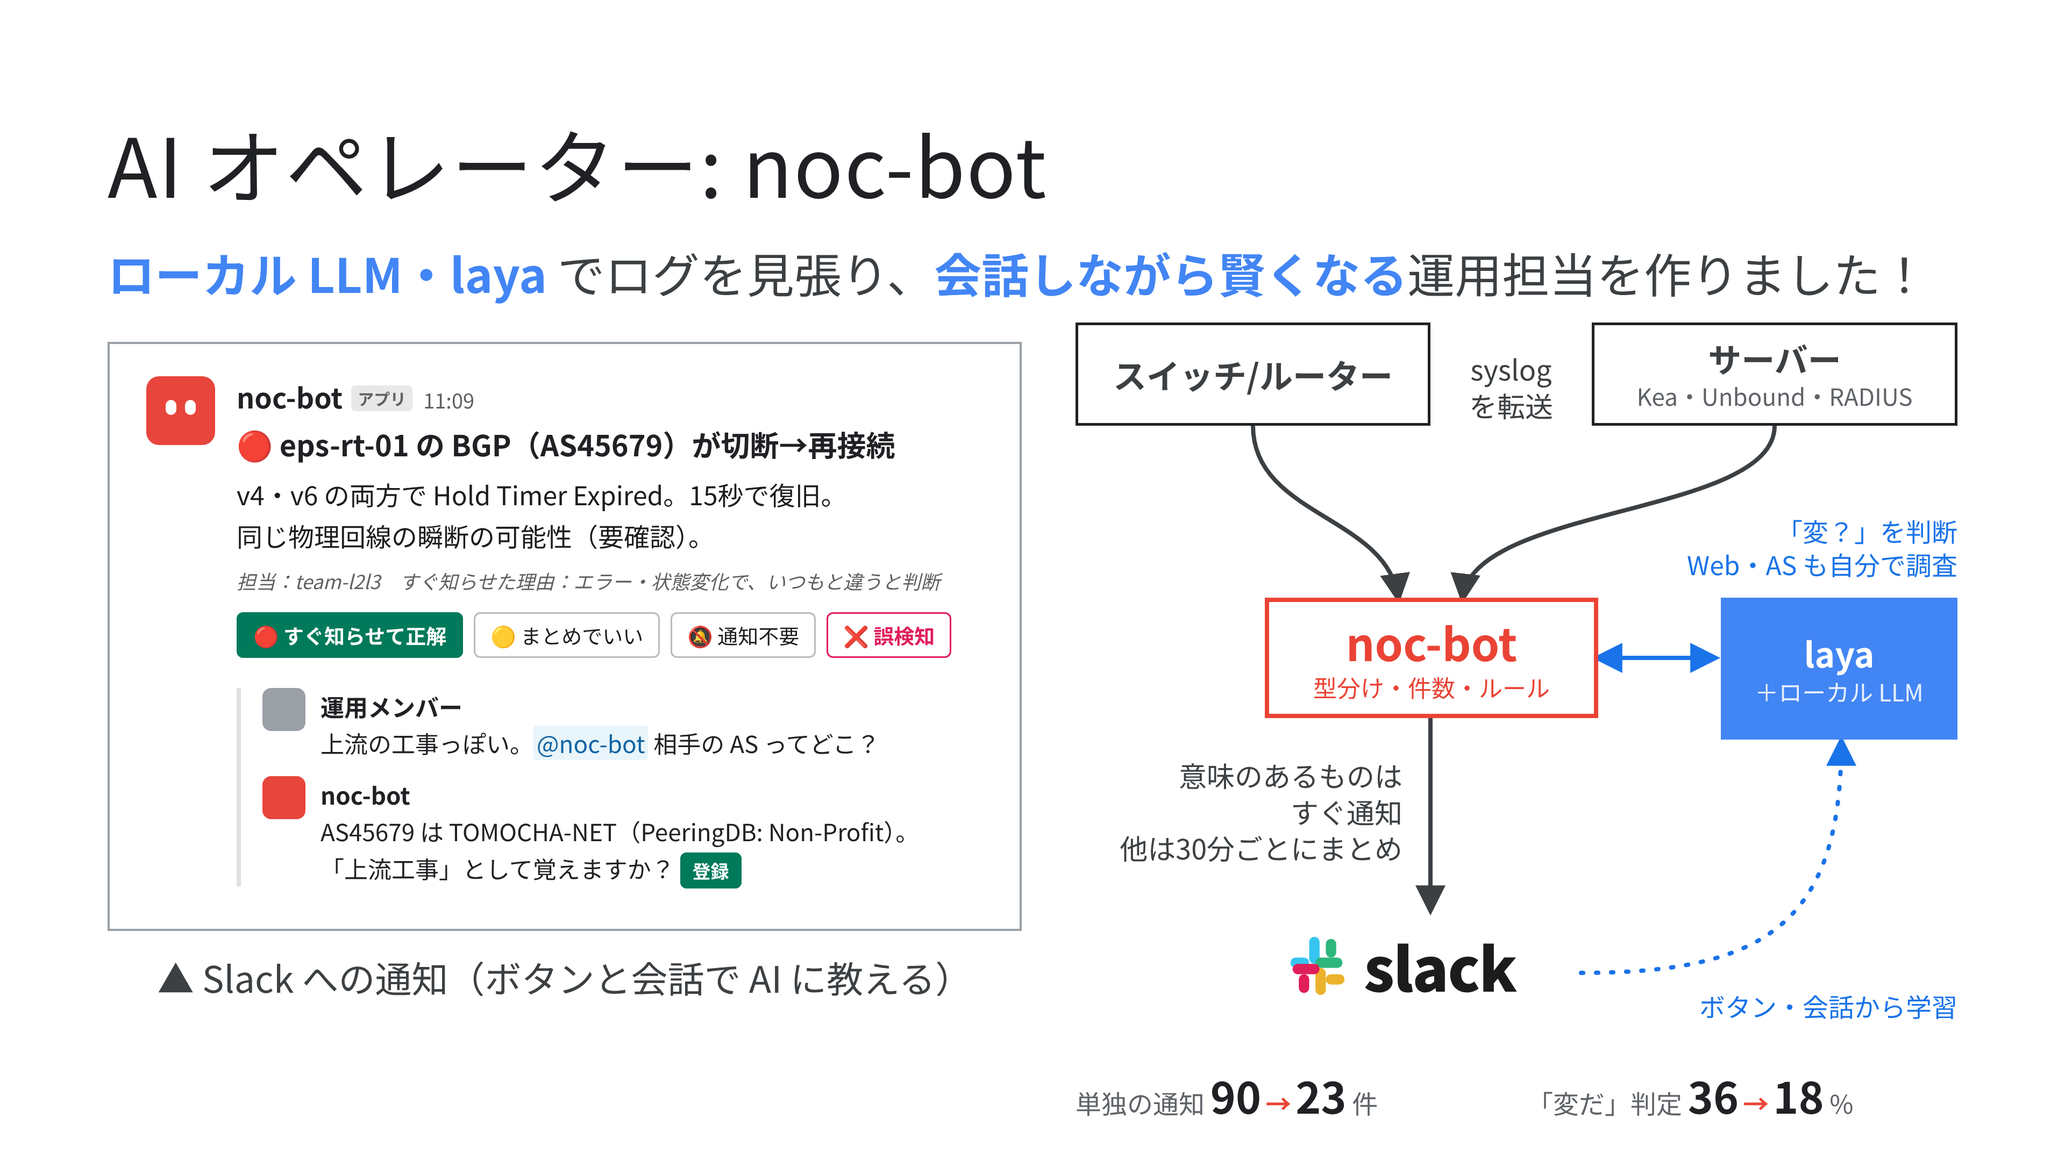
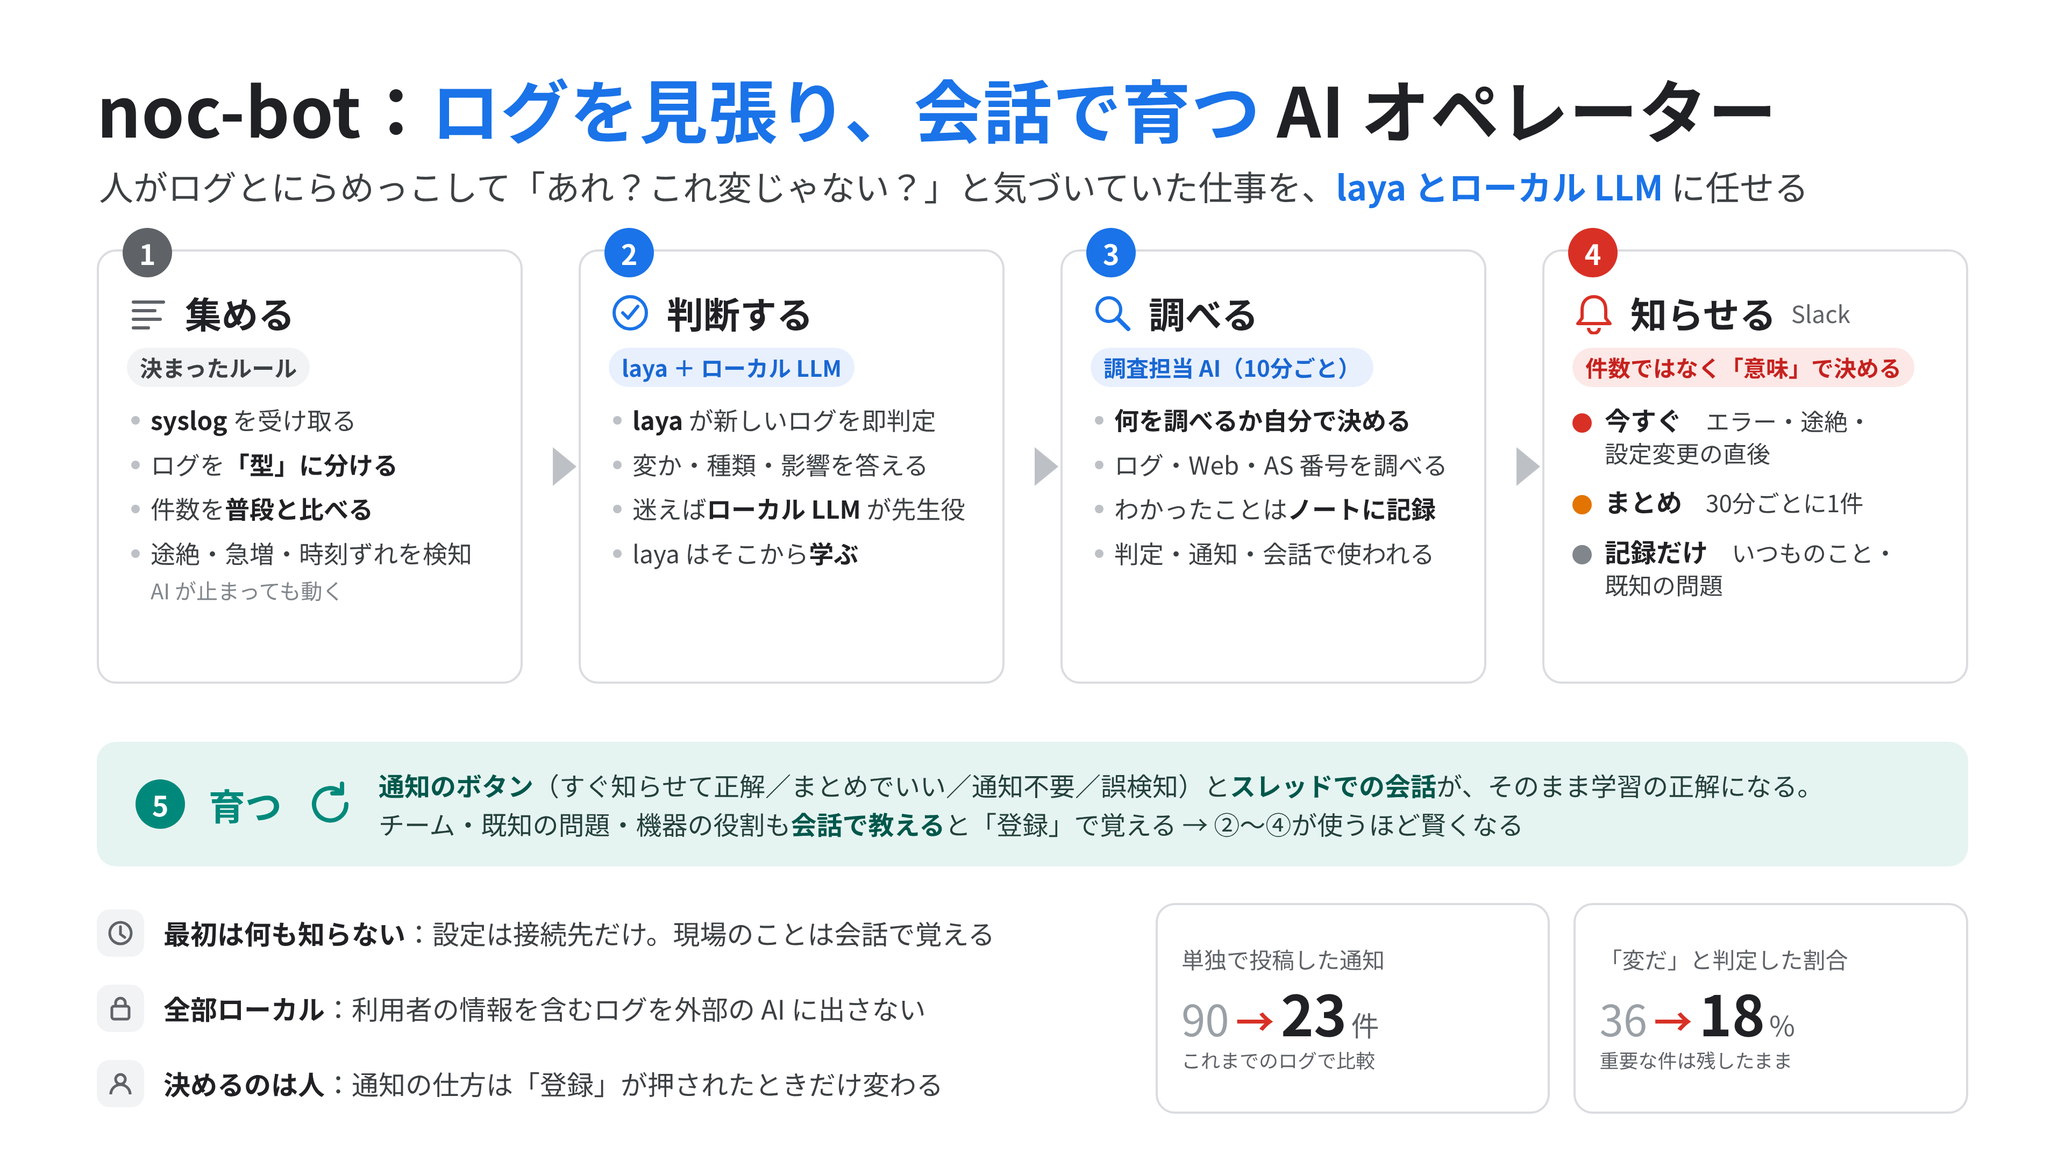
Rework the noc-bot slide around what it does
Four steps (collect, judge, investigate, notify), how it learns, the
principles and the measured effect, instead of copying the Zabbix
slide's layout.

diff --git a/docs/slide/slide.html b/docs/slide/slide.html
@@ -4,134 +4,148 @@
 <meta charset="utf-8">
 <style>
   * { box-sizing: border-box; margin: 0; padding: 0; }
-  html, body { width: 1920px; height: 1080px; background: #fff; overflow: hidden; }
-  body { font-family: "Noto Sans CJK JP", "Noto Sans JP", sans-serif; color: #202124; position: relative; }
+  html, body { width: 1920px; height: 1080px; overflow: hidden; background: #fff; }
+  body { font-family: "Noto Sans CJK JP", sans-serif; color: #202124; position: relative; }
+  :root { --blue:#1a73e8; --red:#d93025; --amber:#e37400; --gray:#80868b; --teal:#00897b; --ink:#202124; --sub:#5f6368; --line:#dadce0; }
 
-  .title { position: absolute; left: 100px; top: 96px; font-size: 76px; font-weight: 400; letter-spacing: 1px; }
-  .lead  { position: absolute; left: 100px; top: 222px; font-size: 44px; font-weight: 400; color: #3c4043; }
-  .lead b { color: #4285f4; font-weight: 700; }
+  .title { position: absolute; left: 90px; top: 54px; font-size: 64px; font-weight: 700; letter-spacing: .5px; }
+  .title span { color: var(--blue); }
+  .lead { position: absolute; left: 92px; top: 150px; font-size: 32px; color: #3c4043; }
+  .lead b { color: var(--blue); }
 
-  /* ---------- left: the Slack alert as people see it ---------- */
-  .shot { position: absolute; left: 100px; top: 318px; width: 850px; height: 548px; border: 2px solid #9aa0a6;
-          background: #fff; padding: 30px 34px; font-family: "Noto Sans CJK JP", sans-serif; }
-  .msg { display: flex; gap: 20px; }
-  .avatar { width: 64px; height: 64px; border-radius: 12px; background: #e8453c; flex: none; position: relative; }
-  .avatar::before, .avatar::after { content: ""; position: absolute; top: 22px; width: 10px; height: 14px; border-radius: 5px; background: #fff; }
-  .avatar::before { left: 18px; } .avatar::after { right: 18px; }
-  .who { font-size: 26px; font-weight: 700; }
-  .who .app { font-size: 15px; font-weight: 700; color: #616061; background: #e8e8e8; border-radius: 4px; padding: 1px 6px; margin-left: 8px; vertical-align: 3px; }
-  .who .time { font-size: 19px; font-weight: 400; color: #616061; margin-left: 10px; }
-  .head { font-size: 27px; font-weight: 700; margin-top: 6px; line-height: 1.45; }
-  .body { font-size: 24px; line-height: 1.6; margin-top: 8px; color: #1d1c1d; }
-  .meta { font-size: 18px; color: #616061; margin-top: 10px; font-style: italic; }
-  .btns { display: flex; flex-wrap: wrap; gap: 10px; margin-top: 16px; }
-  .btn { font-size: 19px; border: 1.5px solid #bbb; border-radius: 6px; padding: 6px 14px; color: #1d1c1d; background: #fff; }
-  .btn.primary { background: #007a5a; border-color: #007a5a; color: #fff; font-weight: 700; }
-  .btn.danger { color: #e01e5a; border-color: #e01e5a; font-weight: 700; }
-  .thread { margin: 28px 0 0 84px; border-left: 4px solid #e0e0e0; padding-left: 20px; }
-  .reply { display: flex; gap: 14px; margin-top: 14px; }
-  .reply .av { width: 40px; height: 40px; border-radius: 8px; flex: none; }
-  .reply .t { font-size: 22px; line-height: 1.55; }
-  .reply .n { font-weight: 700; }
-  .mention { color: #1264a3; background: #e8f5fa; border-radius: 3px; padding: 0 3px; }
-  .caption { position: absolute; left: 100px; top: 884px; width: 850px; text-align: center; font-size: 34px; color: #3c4043; }
+  .steps { position: absolute; left: 90px; top: 232px; width: 1740px; height: 404px; display: flex; gap: 52px; }
+  .card { flex: 1; border: 2px solid var(--line); border-radius: 18px; padding: 26px 26px 22px; position: relative; background: #fff; }
+  .card .no { position: absolute; top: -22px; left: 22px; width: 46px; height: 46px; border-radius: 50%; color: #fff; font-size: 26px; font-weight: 700;
+              display: flex; align-items: center; justify-content: center; }
+  .card h3 { font-size: 34px; font-weight: 700; display: flex; align-items: center; gap: 14px; margin-top: 6px; }
+  .card h3 small { font-size: 22px; color: var(--sub); font-weight: 400; }
+  .card .who { margin-top: 8px; font-size: 21px; font-weight: 700; display: inline-block; padding: 3px 12px; border-radius: 999px; }
+  .card ul { list-style: none; margin-top: 14px; }
+  .card li { font-size: 23px; line-height: 1.45; padding-left: 22px; position: relative; margin-top: 8px; color: #3c4043; }
+  .card li::before { content: ""; position: absolute; left: 4px; top: 13px; width: 8px; height: 8px; border-radius: 50%; background: #bdc1c6; }
+  .card li b { color: var(--ink); }
+  .arrow { position: absolute; top: 416px; width: 0; height: 0; border-top: 18px solid transparent; border-bottom: 18px solid transparent; border-left: 22px solid #bdc1c6; }
 
-  /* ---------- right: the diagram ---------- */
-  .box { position: absolute; border: 2.5px solid #202124; background: #fff; font-size: 34px; font-weight: 700;
-         display: flex; align-items: center; justify-content: center; color: #3c4043; }
-  .box small { display: block; font-size: 22px; font-weight: 400; color: #5f6368; margin-top: 2px; }
-  .box.col { flex-direction: column; text-align: center; line-height: 1.25; }
-  .core { border: 4px solid #ea4335; color: #ea4335; font-size: 42px; }
-  .core small { color: #ea4335; }
-  .brain { background: #4285f4; border: none; color: #fff; }
-  .brain small { color: #e8f0fe; }
-  .note { position: absolute; font-size: 28px; color: #3c4043; line-height: 1.3; text-align: center; white-space: nowrap; }
-  .note.l { text-align: right; }
-  .note.blue { color: #1a73e8; }
-  .slack { position: absolute; display: flex; align-items: center; gap: 14px; font-family: "Noto Sans CJK JP", sans-serif;
-           font-size: 56px; font-weight: 900; letter-spacing: -1px; color: #1d1c1d; }
-  .kpi { position: absolute; font-size: 24px; color: #5f6368; }
-  .kpi b { font-size: 40px; color: #202124; font-weight: 700; }
-  .kpi .arrow { color: #ea4335; font-weight: 700; margin: 0 4px; }
-  svg { position: absolute; left: 0; top: 0; }
+  .tier { display: flex; align-items: baseline; gap: 12px; margin-top: 14px; font-size: 22px; color: #3c4043; line-height: 1.35; }
+  .dot { width: 18px; height: 18px; border-radius: 50%; flex: none; transform: translateY(2px); }
+  .tier b { font-size: 24px; color: var(--ink); white-space: nowrap; }
+
+  .loop { position: absolute; left: 90px; top: 690px; width: 1740px; height: 116px; border-radius: 18px; background: #e6f4f1;
+          display: flex; align-items: center; padding: 0 36px; gap: 22px; }
+  .loop .no { width: 46px; height: 46px; border-radius: 50%; background: var(--teal); color: #fff; font-size: 26px; font-weight: 700;
+              display: flex; align-items: center; justify-content: center; flex: none; }
+  .loop h3 { font-size: 34px; color: var(--teal); white-space: nowrap; }
+  .loop p { font-size: 24px; line-height: 1.5; color: #24403b; }
+  .loop p b { color: #00574b; }
+
+  .bottom { position: absolute; left: 90px; top: 840px; width: 1740px; height: 196px; display: flex; gap: 40px; }
+  .rules { flex: 1.25; display: flex; flex-direction: column; justify-content: space-between; padding: 6px 0; }
+  .rule { display: flex; align-items: center; gap: 18px; font-size: 25px; color: #3c4043; }
+  .rule .ic { width: 44px; height: 44px; border-radius: 12px; background: #f1f3f4; display: flex; align-items: center; justify-content: center; flex: none; }
+  .rule b { color: var(--ink); }
+  .kpis { flex: 1; display: flex; gap: 22px; }
+  .kpi { flex: 1; border: 2px solid var(--line); border-radius: 18px; padding: 18px 22px; display: flex; flex-direction: column; justify-content: center; }
+  .kpi .lbl { font-size: 21px; color: var(--sub); }
+  .kpi .val { font-size: 52px; font-weight: 700; line-height: 1.15; margin-top: 4px; white-space: nowrap; }
+  .kpi .val s { text-decoration: none; color: #9aa0a6; font-weight: 400; font-size: 40px; }
+  .kpi .val i { font-style: normal; color: var(--red); font-size: 36px; margin: 0 6px; }
+  .kpi .val u { text-decoration: none; font-size: 26px; font-weight: 400; color: var(--sub); margin-left: 4px; }
+  .kpi .cap { font-size: 18px; color: var(--sub); margin-top: 2px; }
+  svg.icon { display: block; flex: none; }
 </style>
 </head>
 <body>
-  <div class="title">AI オペレーター: noc-bot</div>
-  <div class="lead"><b>ローカル LLM・laya</b> でログを見張り、<b>会話しながら賢くなる</b>運用担当を作りました！</div>
+  <div class="title">noc-bot：<span>ログを見張り、会話で育つ</span> AI オペレーター</div>
+  <div class="lead">人がログとにらめっこして「あれ？これ変じゃない？」と気づいていた仕事を、<b>laya とローカル LLM</b> に任せる</div>
 
-  <!-- left: what operators actually see -->
-  <div class="shot">
-    <div class="msg">
-      <div class="avatar"></div>
-      <div>
-        <div class="who">noc-bot<span class="app">アプリ</span><span class="time">11:09</span></div>
-        <div class="head">🔴 eps-rt-01 の BGP（AS45679）が切断→再接続</div>
-        <div class="body">v4・v6 の両方で Hold Timer Expired。15秒で復旧。<br>同じ物理回線の瞬断の可能性（要確認）。</div>
-        <div class="meta">担当：team-l2l3　すぐ知らせた理由：エラー・状態変化で、いつもと違うと判断</div>
-        <div class="btns">
-          <span class="btn primary">🔴 すぐ知らせて正解</span>
-          <span class="btn">🟡 まとめでいい</span>
-          <span class="btn">🔕 通知不要</span>
-          <span class="btn danger">❌ 誤検知</span>
-        </div>
-      </div>
+  <div class="steps">
+    <div class="card">
+      <div class="no" style="background:#5f6368">1</div>
+      <h3>
+        <svg class="icon" width="40" height="40" viewBox="0 0 40 40"><g stroke="#5f6368" stroke-width="3" stroke-linecap="round"><line x1="6" y1="10" x2="34" y2="10"/><line x1="6" y1="18" x2="26" y2="18"/><line x1="6" y1="26" x2="31" y2="26"/><line x1="6" y1="34" x2="20" y2="34"/></g></svg>
+        集める
+      </h3>
+      <span class="who" style="background:#f1f3f4;color:#3c4043">決まったルール</span>
+      <ul>
+        <li><b>syslog</b> を受け取る</li>
+        <li>ログを<b>「型」に分ける</b></li>
+        <li>件数を<b>普段と比べる</b></li>
+        <li>途絶・急増・時刻ずれを検知<br><span style='font-size:20px;color:#80868b'>AI が止まっても動く</span></li>
+      </ul>
     </div>
-    <div class="thread">
-      <div class="reply">
-        <div class="av" style="background:#9aa0a6"></div>
-        <div class="t"><span class="n">運用メンバー</span><br>上流の工事っぽい。<span class="mention">@noc-bot</span> 相手の AS ってどこ？</div>
+    <div class="card">
+      <div class="no" style="background:var(--blue)">2</div>
+      <h3>
+        <svg class="icon" width="40" height="40" viewBox="0 0 40 40"><circle cx="20" cy="20" r="15" fill="none" stroke="#1a73e8" stroke-width="3"/><path d="M13 20 l5 5 l9 -11" fill="none" stroke="#1a73e8" stroke-width="3" stroke-linecap="round" stroke-linejoin="round"/></svg>
+        判断する
+      </h3>
+      <span class="who" style="background:#e8f0fe;color:#1967d2">laya ＋ ローカル LLM</span>
+      <ul>
+        <li><b>laya</b> が新しいログを即判定</li>
+        <li>変か・種類・影響を答える</li>
+        <li>迷えば<b>ローカル LLM</b> が先生役</li>
+        <li>laya はそこから<b>学ぶ</b></li>
+      </ul>
+    </div>
+    <div class="card">
+      <div class="no" style="background:var(--blue)">3</div>
+      <h3>
+        <svg class="icon" width="40" height="40" viewBox="0 0 40 40"><circle cx="17" cy="17" r="11" fill="none" stroke="#1a73e8" stroke-width="3"/><line x1="25" y1="25" x2="35" y2="35" stroke="#1a73e8" stroke-width="4" stroke-linecap="round"/></svg>
+        調べる
+      </h3>
+      <span class="who" style="background:#e8f0fe;color:#1967d2">調査担当 AI（10分ごと）</span>
+      <ul>
+        <li><b>何を調べるか自分で決める</b></li>
+        <li>ログ・Web・AS 番号を調べる</li>
+        <li>わかったことは<b>ノートに記録</b></li>
+        <li>判定・通知・会話で使われる</li>
+      </ul>
+    </div>
+    <div class="card">
+      <div class="no" style="background:var(--red)">4</div>
+      <h3>
+        <svg class="icon" width="40" height="40" viewBox="0 0 40 40"><path d="M20 5 c-7 0 -11 5 -11 12 v8 l-4 5 h30 l-4 -5 v-8 c0 -7 -4 -12 -11 -12z" fill="none" stroke="#d93025" stroke-width="3" stroke-linejoin="round"/><path d="M15 34 a5 5 0 0 0 10 0" fill="none" stroke="#d93025" stroke-width="3"/></svg>
+        知らせる <small>Slack</small>
+      </h3>
+      <span class="who" style="background:#fce8e6;color:#c5221f">件数ではなく「意味」で決める</span>
+      <div class="tier"><span class="dot" style="background:var(--red)"></span><span><b>今すぐ</b>　エラー・途絶・<br>設定変更の直後</span></div>
+      <div class="tier"><span class="dot" style="background:var(--amber)"></span><span><b>まとめ</b>　30分ごとに1件</span></div>
+      <div class="tier"><span class="dot" style="background:var(--gray)"></span><span><b>記録だけ</b>　いつものこと・<br>既知の問題</span></div>
+    </div>
+  </div>
+  <div class="arrow" style="left:514px"></div>
+  <div class="arrow" style="left:962px"></div>
+  <div class="arrow" style="left:1410px"></div>
+
+  <div class="loop">
+    <div class="no">5</div>
+    <h3>育つ</h3>
+    <svg class="icon" width="46" height="46" viewBox="0 0 46 46"><path d="M38 23 a15 15 0 1 1 -5 -11" fill="none" stroke="#00897b" stroke-width="4" stroke-linecap="round"/><path d="M34 4 v9 h-9" fill="none" stroke="#00897b" stroke-width="4" stroke-linecap="round" stroke-linejoin="round"/></svg>
+    <p><b>通知のボタン</b>（すぐ知らせて正解／まとめでいい／通知不要／誤検知）と<b>スレッドでの会話</b>が、そのまま学習の正解になる。<br>
+       チーム・既知の問題・機器の役割も<b>会話で教える</b>と「登録」で覚える → ②〜④が使うほど賢くなる</p>
+  </div>
+
+  <div class="bottom">
+    <div class="rules">
+      <div class="rule"><span class="ic"><svg width="26" height="26" viewBox="0 0 26 26"><circle cx="13" cy="13" r="10" fill="none" stroke="#5f6368" stroke-width="2.5"/><path d="M13 7 v7 l4 3" fill="none" stroke="#5f6368" stroke-width="2.5" stroke-linecap="round"/></svg></span>
+        <span><b>最初は何も知らない</b>：設定は接続先だけ。現場のことは会話で覚える</span></div>
+      <div class="rule"><span class="ic"><svg width="26" height="26" viewBox="0 0 26 26"><rect x="5" y="11" width="16" height="12" rx="2" fill="none" stroke="#5f6368" stroke-width="2.5"/><path d="M8.5 11 v-3 a4.5 4.5 0 0 1 9 0 v3" fill="none" stroke="#5f6368" stroke-width="2.5"/></svg></span>
+        <span><b>全部ローカル</b>：利用者の情報を含むログを外部の AI に出さない</span></div>
+      <div class="rule"><span class="ic"><svg width="26" height="26" viewBox="0 0 26 26"><circle cx="13" cy="9" r="4.5" fill="none" stroke="#5f6368" stroke-width="2.5"/><path d="M4 23 a9 9 0 0 1 18 0" fill="none" stroke="#5f6368" stroke-width="2.5"/></svg></span>
+        <span><b>決めるのは人</b>：通知の仕方は「登録」が押されたときだけ変わる</span></div>
+    </div>
+    <div class="kpis">
+      <div class="kpi">
+        <div class="lbl">単独で投稿した通知</div>
+        <div class="val"><s>90</s><i>→</i>23<u>件</u></div>
+        <div class="cap">これまでのログで比較</div>
       </div>
-      <div class="reply">
-        <div class="av" style="background:#e8453c"></div>
-        <div class="t"><span class="n">noc-bot</span><br>AS45679 は TOMOCHA-NET（PeeringDB: Non-Profit）。<br>「上流工事」として覚えますか？ <span class="btn primary" style="font-size:17px;padding:3px 10px">登録</span></div>
+      <div class="kpi">
+        <div class="lbl">「変だ」と判定した割合</div>
+        <div class="val"><s>36</s><i>→</i>18<u>%</u></div>
+        <div class="cap">重要な件は残したまま</div>
       </div>
     </div>
   </div>
-  <div class="caption">▲ Slack への通知（ボタンと会話で AI に教える）</div>
-
-  <!-- right: diagram (x 1000-1820) -->
-  <svg width="1920" height="1080" viewBox="0 0 1920 1080">
-    <defs>
-      <marker id="ah" viewBox="0 0 10 10" refX="8" refY="5" markerWidth="7" markerHeight="7" orient="auto-start-reverse">
-        <path d="M0,0 L10,5 L0,10 z" fill="#3c4043"/>
-      </marker>
-      <marker id="ahb" viewBox="0 0 10 10" refX="8" refY="5" markerWidth="7" markerHeight="7" orient="auto-start-reverse">
-        <path d="M0,0 L10,5 L0,10 z" fill="#1a73e8"/>
-      </marker>
-    </defs>
-    <g fill="none" stroke="#3c4043" stroke-width="4" stroke-linecap="round">
-      <path d="M1165,396 C1165,480 1290,480 1300,556" marker-end="url(#ah)"/>
-      <path d="M1650,396 C1650,480 1370,470 1360,556" marker-end="url(#ah)"/>
-      <path d="M1330,668 L1330,846" marker-end="url(#ah)"/>
-    </g>
-    <g fill="none" stroke="#1a73e8" stroke-width="4" stroke-linecap="round">
-      <path d="M1486,612 L1594,612" marker-start="url(#ahb)" marker-end="url(#ahb)"/>
-      <path d="M1470,905 C1640,905 1712,860 1712,690" stroke-dasharray="2 12" marker-end="url(#ahb)"/>
-    </g>
-  </svg>
-
-  <div class="box" style="left:1000px; top:300px; width:330px; height:96px; font-size:31px;">スイッチ/ルーター</div>
-  <div class="box col" style="left:1480px; top:300px; width:340px; height:96px; font-size:31px;">サーバー<small>Kea・Unbound・RADIUS</small></div>
-  <div class="note" style="left:1330px; top:326px; width:150px; font-size:26px;">syslog<br>を転送</div>
-
-  <div class="box col core" style="left:1176px; top:556px; width:310px; height:112px;">noc-bot<small>型分け・件数・ルール</small></div>
-  <div class="box col brain" style="left:1600px; top:556px; width:220px; height:132px; font-size:32px;">laya<small>＋ローカル LLM</small></div>
-  <div class="note blue l" style="left:1540px; top:478px; width:280px; font-size:24px;">「変？」を判断<br>Web・AS も自分で調査</div>
-
-  <div class="note l" style="left:1000px; top:704px; width:304px; font-size:26px;">意味のあるものは<br>すぐ通知<br>他は30分ごとにまとめ</div>
-
-  <div class="slack" style="left:1196px; top:858px;">
-    <svg width="58" height="58" viewBox="0 0 60 60" style="position:static">
-      <rect x="22" y="2"  width="10" height="26" rx="5" fill="#36c5f0"/><rect x="4"  y="22" width="18" height="10" rx="5" fill="#36c5f0"/>
-      <rect x="28" y="22" width="26" height="10" rx="5" fill="#2eb67d"/><rect x="38" y="4"  width="10" height="18" rx="5" fill="#2eb67d"/>
-      <rect x="28" y="32" width="10" height="26" rx="5" fill="#ecb22e"/><rect x="38" y="38" width="18" height="10" rx="5" fill="#ecb22e"/>
-      <rect x="6"  y="28" width="26" height="10" rx="5" fill="#e01e5a"/><rect x="12" y="38" width="10" height="18" rx="5" fill="#e01e5a"/>
-    </svg>slack
-  </div>
-  <div class="note blue l" style="left:1500px; top:920px; width:320px; font-size:24px;">ボタン・会話から学習</div>
-
-  <div class="kpi" style="left:1000px; top:990px;">単独の通知 <b>90</b><span class="arrow">→</span><b>23</b> 件</div>
-  <div class="kpi" style="left:1420px; top:990px;">「変だ」判定 <b>36</b><span class="arrow">→</span><b>18</b> %</div>
 </body>
 </html>
